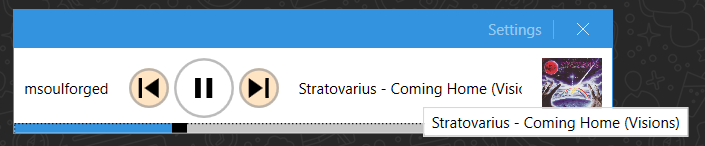
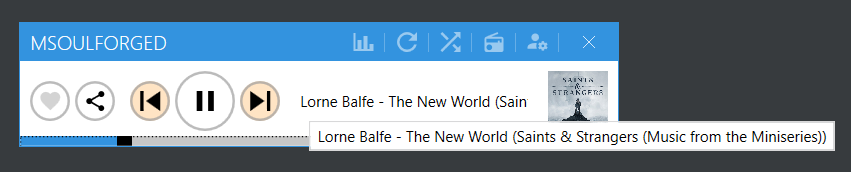
update readme and screenshot

diff --git a/README.md b/README.md
@@ -14,6 +14,32 @@ The application requires to have a Spotify Premium account to work. It will not 
 * A randomizer! See below for details.
 * Requires a spotify device to be active. If there is no active device, it show a message to open a Spotify app in any of your devices.
 
+## New Features
+
+### 1.1.4
+
+* Song radio feature is added. This is basically the randomize function with the currently playing song as the only starting seed.
+* Changed all one line functions from body block to expression block.
+* Changed settings button from text to icon.
+* Fixed a bug where if the randomization/song radio fails, the play button was stuck as hourglass icon.
+
+### 1.1.3
+
+* Added randomizer feature. See below for details.
+* Fixed a bug where the image cover art was updated every second (which was not necessary).
+
+### 1.1.2
+
+* Added a "Stats for Nerds" style "audio features" window. It can be accessed by the button on the app bar with a chart icon.
+
+### 1.1.1
+
+* Added a feature to share. Clicking the share button will copy the currently playing track's Spotify url to the clipboard.
+
+### 1.0.0
+
+* Added a feature to display if the current track is added to the library or not. User can click the heart icon to add or remove the track from the library. Added tracks will be displayed with a red heart icon, and removed tracks will be displayed with a light gray heart icon.
+
 ### Randomizer
 
 The randomization flow is as follows:
@@ -28,12 +54,8 @@ The randomization flow is as follows:
 9. Send a request to the API to play all the tracks in the recommendation response.
 10. Start groovin'!.
 
-## How to build
-* Clone the repository.
-* Open the solution in Visual Studio (preferably 2023).
-* Build the solution.
-
 ## Requirements
+
 * Windows 10.0.17763.0 or newer. This is because the application uses `Microsoft.Toolkit.Uwp.Notifications` library which requires Windows 10.0.17763.0 or newer.
 * .NET 7
 * Spotify Premium account
@@ -49,24 +71,7 @@ The randomization flow is as follows:
 * Microsoft.Web.WebView2: A great library for Chromium based webview. It is used to display the user authentication and authorization page.
 * Microsoft.Xaml.Behaviors.Wpf: A great library for WPF behaviors (mainly used for binding commands to event handlers).
 
-## New Features
-
-### 1.1.3
-
-* Added randomizer feature. See above for details.
-* Fixed a bug where the image cover art was updated every second (which was not necessary).
-
-### 1.1.2
-
-* Added a "Stats for Nerds" style "audio features" window. It can be accessed by the button on the app bar with a chart icon.
-
-### 1.1.1
-
-* Added a feature to share. Clicking the share button will copy the currently playing track's Spotify url to the clipboard.
-
-### 1.0.0
-
-* Added a feature to display if the current track is added to the library or not. User can click the heart icon to add or remove the track from the library. Added tracks will be displayed with a red heart icon, and removed tracks will be displayed with a light gray heart icon.
-
 ## TODO
-* Fix the issue where the client id is not registered on the first launch of the application.
+
+* (maybe) add a feature to display the current track's lyrics.
+* (maybe) add an invisible webview2 to play the track in the application itself.
